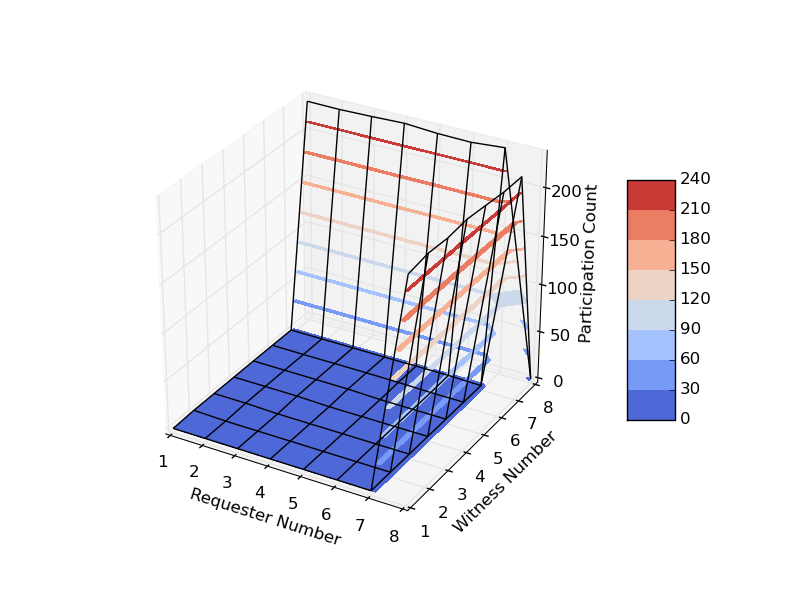
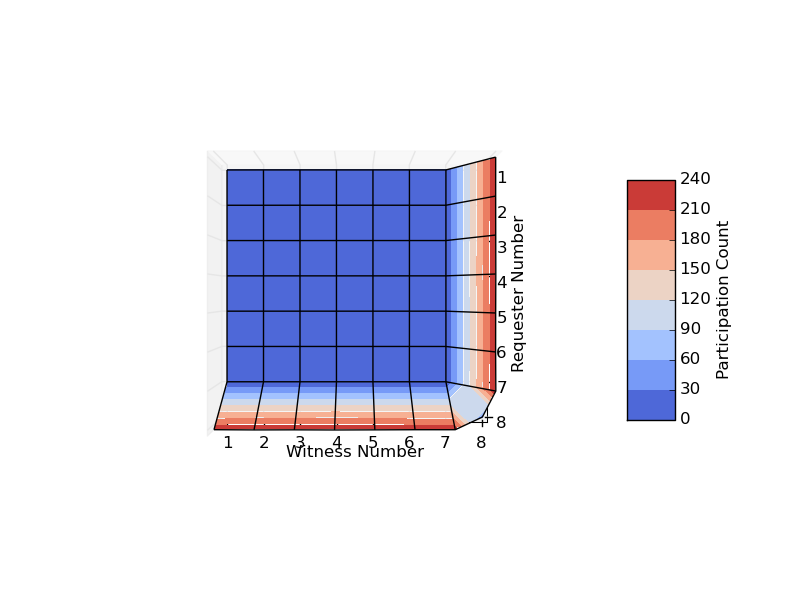
rotated graphs

diff --git a/plotWitnessInformation.py b/plotWitnessInformation.py
@@ -16,7 +16,7 @@ for i in range(0,21,1):
         axes = plt.gca()
         axes.set_xlim([1, 8])
         axes.set_ylim([1, 8])
-
+        ax.view_init(elev=90, azim=0)
         X = numpy.arange(1,sellerCount+1)
         Y = numpy.arange(1,sellerCount+1)
         X, Y = numpy.meshgrid(X, Y)
@@ -26,7 +26,11 @@ for i in range(0,21,1):
         plot = ax.contourf(X, Y, Z, cmap=cm.coolwarm)
         ax.set_xlabel('Requester Number')
         ax.set_ylabel('Witness Number')
-        ax.set_zlabel('Participation Count')
-        fig.colorbar(plot, shrink=0.5, aspect=5)
+        #ax.set_zlabel('Participation Count')
+        cbar = fig.colorbar(plot, shrink=0.5, aspect=5)
+        cbar.ax.set_ylabel('Participation Count')
+        # turn of z axis
+        ax.w_zaxis.line.set_lw(0.)
+        ax.set_zticks([])
         plt.savefig(fileName + ".png")
         plt.close(fig)
